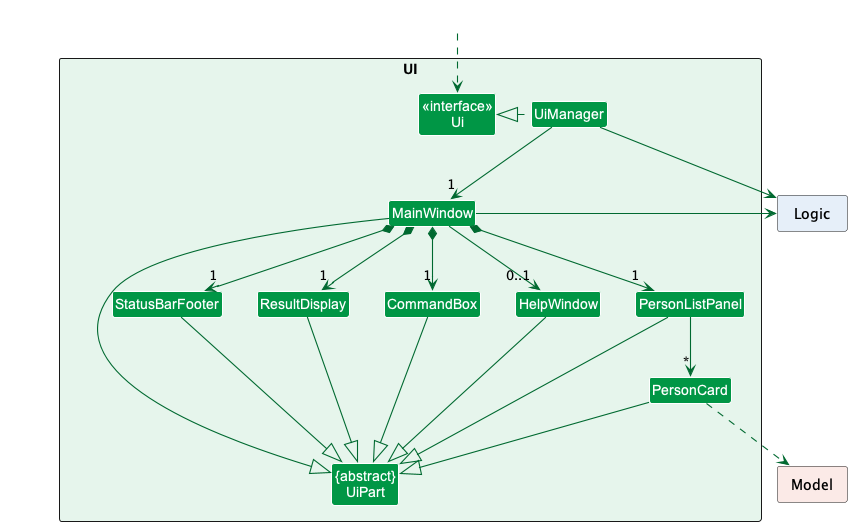
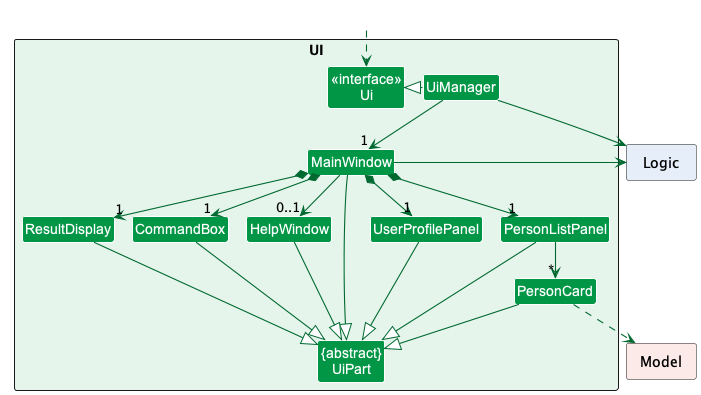
Update UiClassDiagram

diff --git a/docs/DeveloperGuide.md b/docs/DeveloperGuide.md
@@ -321,7 +321,7 @@ The **API** of this component is specified in [`Ui.java`](https://github.com/AY2
 </div>
 <br>
 
-The UI consists of a `MainWindow` that is made up of parts e.g.`CommandBox`, `ResultDisplay`, `PersonListPanel`, `StatusBarFooter` etc. All these, including the `MainWindow`, inherit from the abstract `UiPart` class which captures the commonalities between classes that represent parts of the visible GUI.
+The UI consists of a `MainWindow` that is made up of parts e.g.`CommandBox`, `ResultDisplay`, `PersonListPanel`, `UserProfilePanel` etc. All these, including the `MainWindow`, inherit from the abstract `UiPart` class which captures the commonalities between classes that represent parts of the visible GUI.
 
 The `UI` component uses the JavaFx UI framework. The layout of these UI parts are defined in matching `.fxml` files that are in the `src/main/resources/view` folder. For example, the layout of the [`MainWindow`](https://github.com/AY2223S2-CS2103T-W14-2/tp/blob/master/src/main/java/seedu/address/ui/MainWindow.java) is specified in [`MainWindow.fxml`](https://github.com/AY2223S2-CS2103T-W14-2/tp/blob/master/src/main/resources/view/MainWindow.fxml)
 
